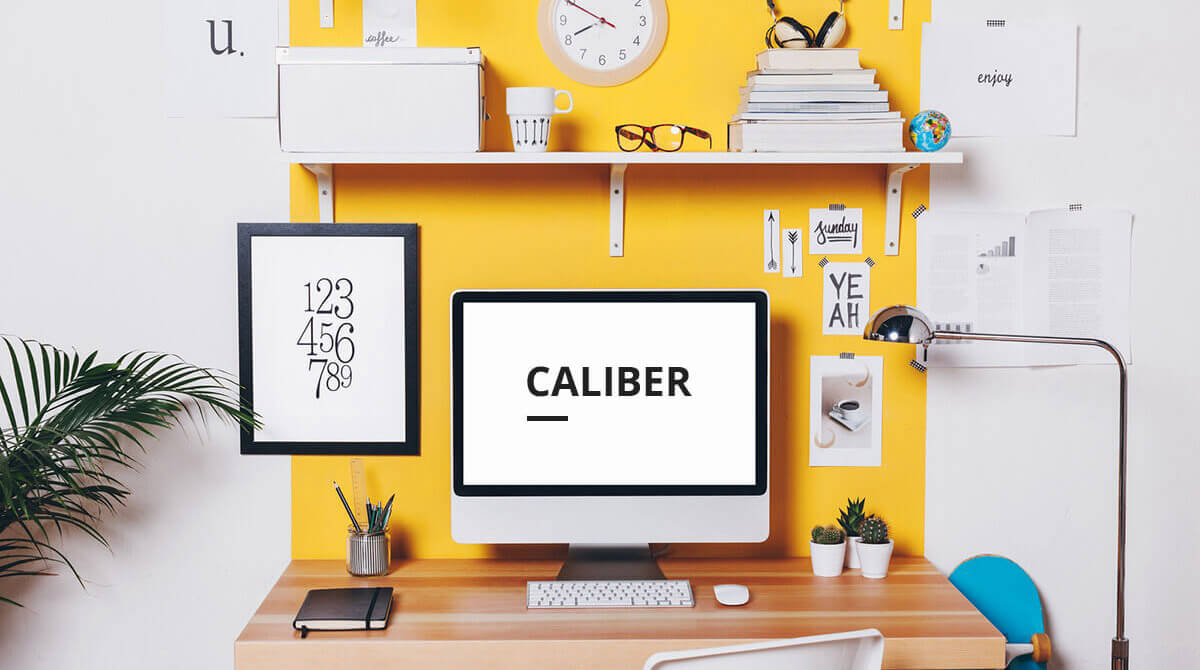
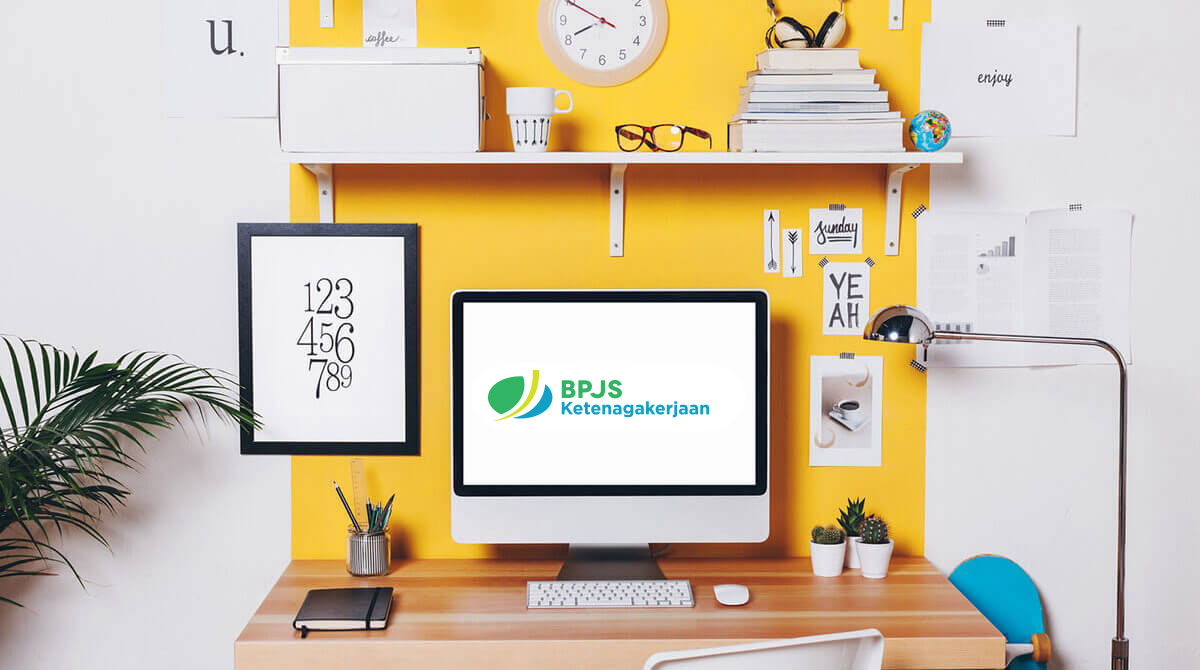
20161229

Changed region(s): [[0.4008, 0.5373, 0.5858, 0.6269]]

diff --git a/css/style.css b/css/style.css
@@ -953,7 +953,6 @@ section.header .container .logo span {
 
 section.header .container .logo span:after {
     content: " ";
-    background-color: #ffc107;
     width: 30px;
     height: 4px;
     margin-top: 10px;

diff --git a/footer.php b/footer.php
@@ -13,8 +13,8 @@
                         <div class="logo">
                             <span><img src="img/logo-flat.png" class="img-responsive" width="55%"></span>
                         </div>
-                        <p>This is a unique & creatively designed layout built in Photoshop with a modern look. All the files are well organized and named as per content. Its very easy to change any part.</p>
-                        <p>Email: youremail@example.com <br> Phone: +1 234 5678 910</p>
+                        <p>Mau jadi peserta BPJS Ketenagakerjaan? Silahkan <a href="https://es.bpjsketenagakerjaan.go.id/bpu-mobile/cekdaftarbaru.zul" target="_blank">klik disini</a> untuk mengisi formulir pendaftaran</p>
+                        <p>Call Center 1500910</p>
                     </div>
                     <!-- Text Widget - End -->
                     <!-- Twitter Widget - Start -->
@@ -37,17 +37,11 @@
                     <!-- Twitter Widget - End -->
                     <!-- Flickr Widget - Start -->
                     <div class="col-lg-4 col-md-4 col-sm-12 col-xs-12 flickr-widget inviewport animated delay3" data-effect="fadeInUp">
-                        <h4>Flickr</h4>
+                        <h4>BPJS Apps</h4>
                         <div class="headul left-align"></div>
                         <div class="row images">
-                            <div class="col-md-3 col-sm-2 col-xs-4"><img alt="flickr-image" src="img/flickr-1.jpg" class="img-responsive"></div>
-                            <div class="col-md-3 col-sm-2 col-xs-4"><img alt="flickr-image" src="img/flickr-2.jpg" class="img-responsive"></div>
-                            <div class="col-md-3 col-sm-2 col-xs-4"><img alt="flickr-image" src="img/flickr-3.jpg" class="img-responsive"></div>
-                            <div class="col-md-3 col-sm-2 col-xs-4"><img alt="flickr-image" src="img/flickr-4.jpg" class="img-responsive"></div>
-                            <div class="col-md-3 col-sm-2 col-xs-4"><img alt="flickr-image" src="img/flickr-5.jpg" class="img-responsive"></div>
-                            <div class="col-md-3 col-sm-2 col-xs-4"><img alt="flickr-image" src="img/flickr-6.jpg" class="img-responsive"></div>
-                            <div class="col-md-3 hidden-sm hidden-xs"><img alt="flickr-image" src="img/flickr-7.jpg" class="img-responsive"></div>
-                            <div class="col-md-3 hidden-sm hidden-xs"><img alt="flickr-image" src="img/flickr-8.jpg" class="img-responsive"></div>
+                            <div class="col-xs-6"><img src="img/available-iphone.png" class="img-responsive"></div>
+                            <div class="col-xs-6"><img src="img/available-iphone.png" class="img-responsive"></div>
                         </div>
                     </div>
                     <!-- Flickr Widget - End -->
@@ -62,11 +56,12 @@
                                 <span class="">Copyright &copy; 2017 detikcom, All right reserved</span>
                             </div>
                             <div class="col-lg-6 col-md-6 col-sm-4 col-xs-12 social">
-                                <a href="#" class="inviewport animated delay1" data-effect="fadeInUp"><i class="mdi mdi-facebook text-on-primary"></i></a>
-                                <a href="#" class="inviewport animated delay2" data-effect="fadeInUp"><i class="mdi mdi-twitter text-on-primary"></i></a>
-                                <a href="#" class="inviewport animated delay3" data-effect="fadeInUp"><i class="mdi mdi-dribbble text-on-primary"></i></a>
-                                <a href="#" class="inviewport animated delay4" data-effect="fadeInUp"><i class="mdi mdi-google-plus text-on-primary"></i></a>
-                                <a href="#" class="inviewport animated delay5" data-effect="fadeInUp"><i class="mdi mdi-youtube-play text-on-primary"></i></a>
+                                <a href="https://www.facebook.com/BPJSTKinfo/" target="_blank" class="inviewport animated delay1" data-effect="fadeInUp"><i class="mdi mdi-facebook text-on-primary"></i></a>
+                                <a href="https://twitter.com/BPJSTKinfo" target="_blank" class="inviewport animated delay2" data-effect="fadeInUp"><i class="mdi mdi-twitter text-on-primary"></i></a>
+                                <a href="http://www.bpjsketenagakerjaan.go.id/" target="_blank" class="inviewport animated delay3" data-effect="fadeInUp"><i class="mdi mdi-dribbble text-on-primary"></i></a>
+                                <!--
+                                <a href="#" target="_blank" class="inviewport animated delay4" data-effect="fadeInUp"><i class="mdi mdi-google-plus text-on-primary"></i></a> -->
+                                <a href="https://www.youtube.com/user/BPJSTKinfo" target="_blank" class="inviewport animated delay5" data-effect="fadeInUp"><i class="mdi mdi-youtube-play text-on-primary"></i></a>
                             </div>
                         </div>
                     </div>

diff --git a/navbar.php b/navbar.php
@@ -69,7 +69,7 @@
     <div class='header-logo-wrap'>
         <div class="container">
             <div class="logo col-xs-2">
-                <span><img src="img/logo-flat.png" style="max-width:150px;"></span>
+                <span><img src="img/logo.png" style="max-width:240px;"></span>
             </div>
             <div class="menu-mobile col-xs-10 pull-right cssmenu">
                 <i class="mdi mdi-menu menu-toggle"></i>
